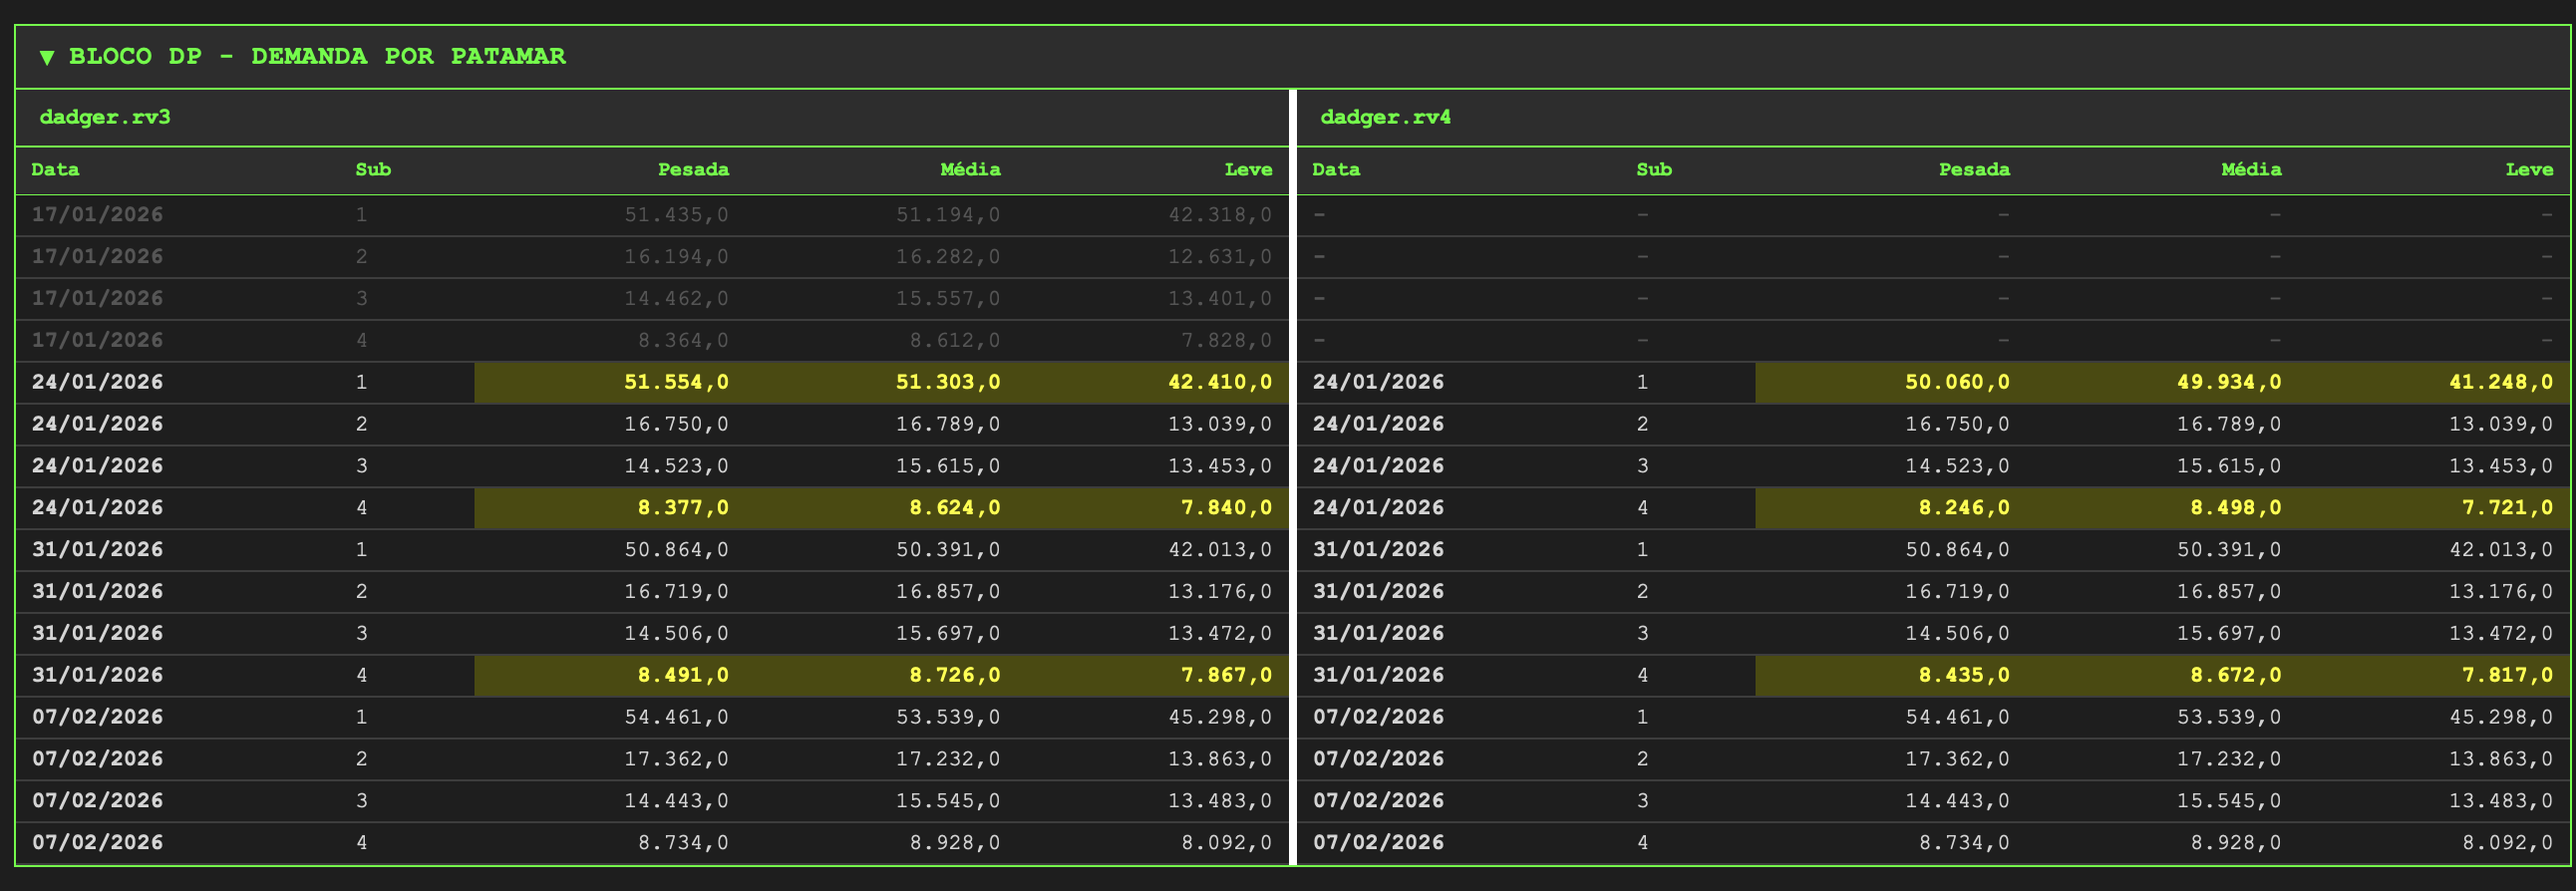
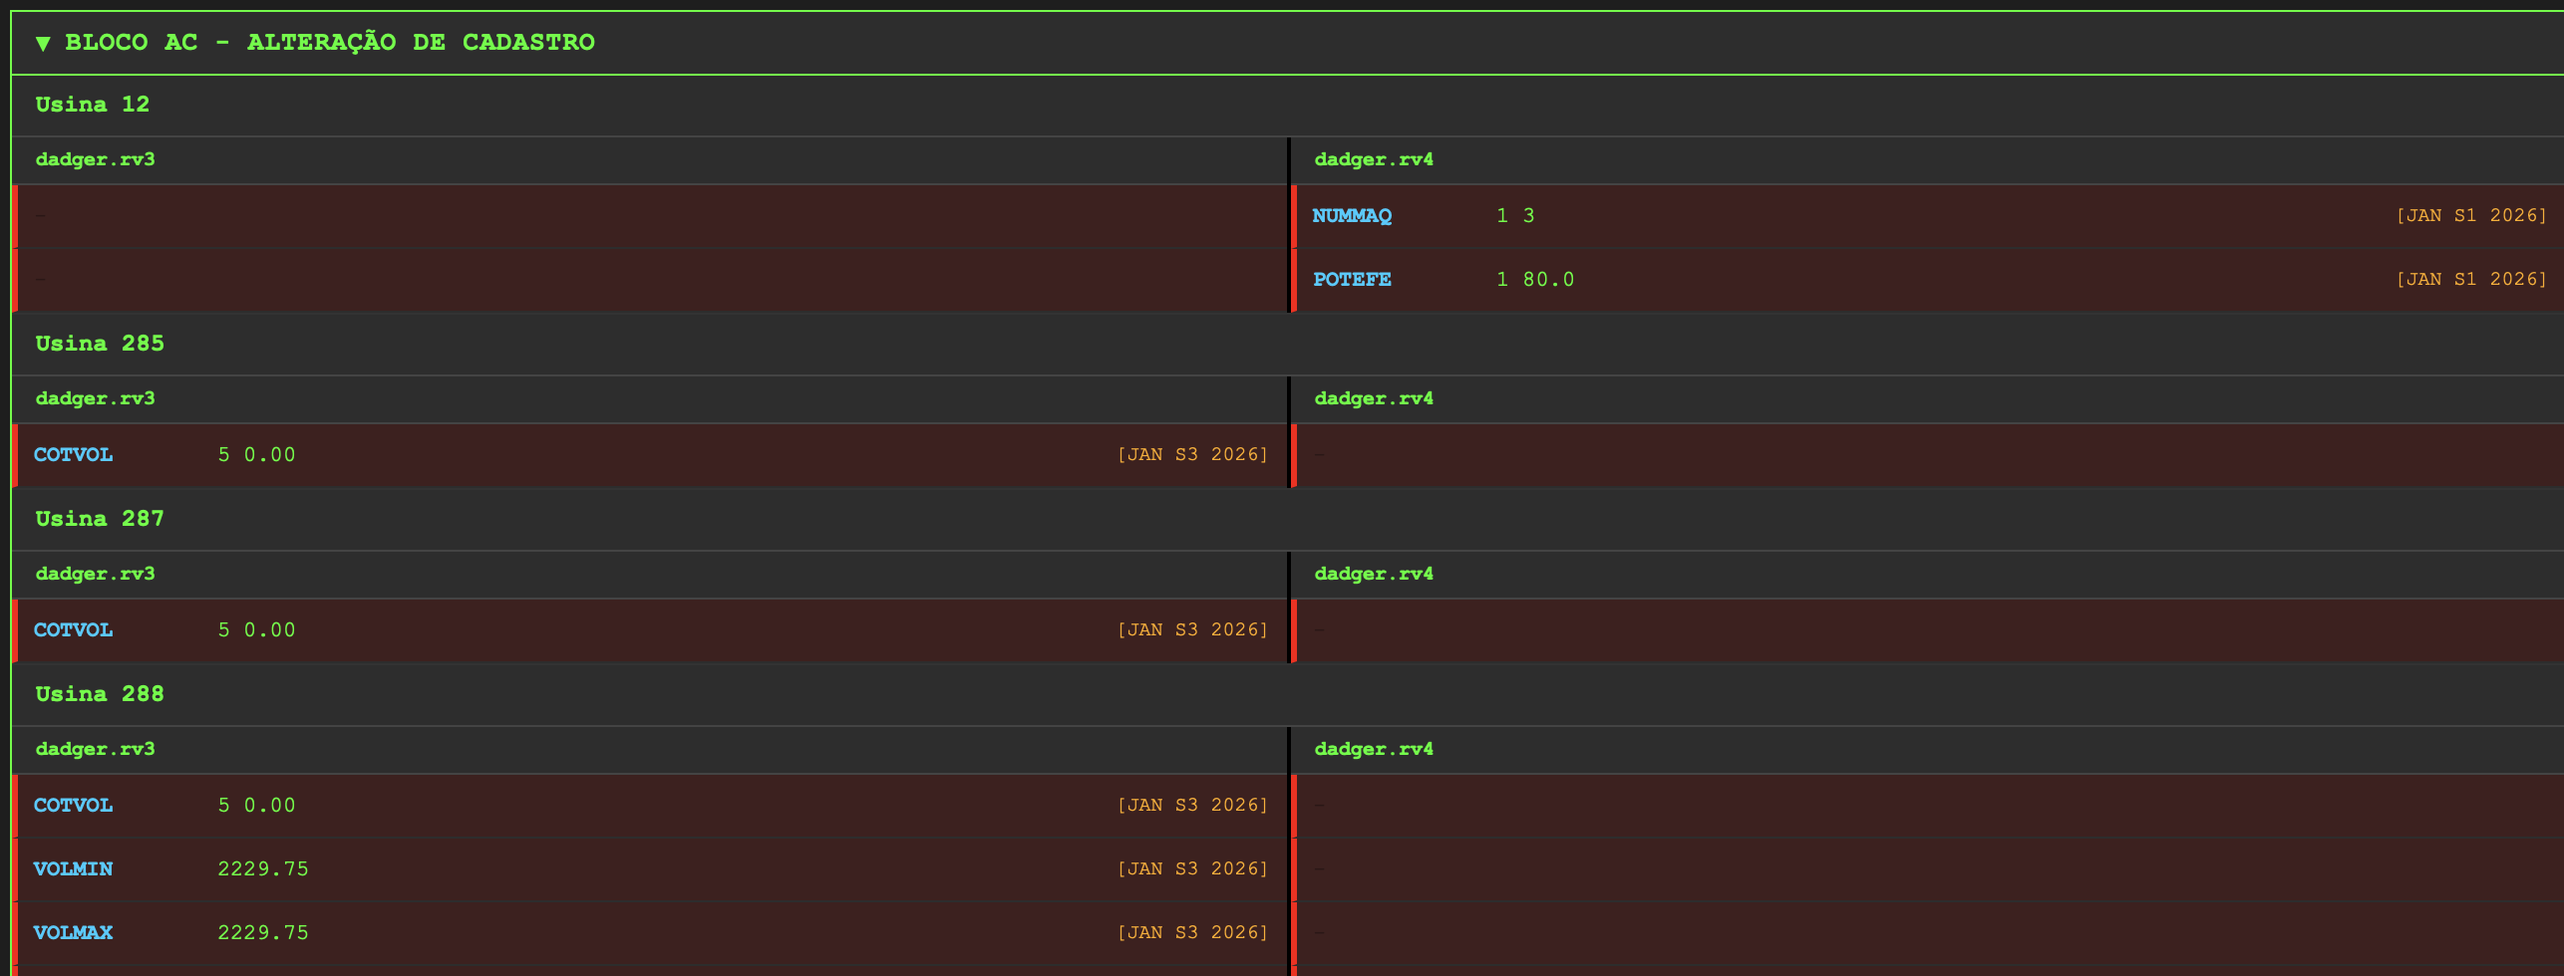
Remover funções de formatação duplicadas nos blocos HQ, HV, RE, RI
Substitui implementações locais de formatLimite e formatRange
pelas funções helper centralizadas em utils/comparison.js.

Blocos atualizados:
- HQBlock: remove formatLimite (4 linhas)
- HVBlock: remove formatLimite (4 linhas)
- REBlock: remove formatLimite (4 linhas)
- RIBlock: remove formatRange (6 linhas)

Redução total: ~18 linhas de código duplicado

🤖 Generated with [Claude Code](https://claude.com/claude-code)

diff --git a/src/components/blocks/RIBlock.vue b/src/components/blocks/RIBlock.vue
@@ -151,7 +151,7 @@
 
 <script>
 import { computed } from 'vue'
-import { hasDiff, formatNumber, alignByEstagio, alignByData } from '../../utils/comparison.js'
+import { hasDiff, formatNumber, formatRange, alignByEstagio, alignByData } from '../../utils/comparison.js'
 import { useBlockComparison } from '../../composables/useBlockComparison.js'
 
 export default {
@@ -255,13 +255,6 @@ export default {
 
     // Criar filteredData com campos de diferença
     const filteredData = createFilteredData()
-
-    const formatRange = (min, max) => {
-      if (min === null && max === null) return '-'
-      const minStr = min !== null ? formatNumber(min) : '-'
-      const maxStr = max !== null ? formatNumber(max) : '-'
-      return `${minStr} - ${maxStr}`
-    }
 
     return {
       collapsed,

diff --git a/src/components/blocks/HQBlock.vue b/src/components/blocks/HQBlock.vue
@@ -140,7 +140,7 @@
 </template>
 
 <script>
-import { formatNumber } from '../../utils/comparison.js'
+import { formatNumber, formatLimite } from '../../utils/comparison.js'
 import { useBlockComparison } from '../../composables/useBlockComparison.js'
 import { useEntityTemporalComparison } from '../../composables/useEntityTemporalComparison.js'
 
@@ -213,11 +213,6 @@ export default {
 
     // Criar filteredData com campo de diferença
     const filteredData = createFilteredData()
-
-    const formatLimite = (value) => {
-      if (value === null || value === undefined) return '-'
-      return formatNumber(value)
-    }
 
     return {
       collapsed,

diff --git a/src/components/blocks/HVBlock.vue b/src/components/blocks/HVBlock.vue
@@ -136,7 +136,7 @@
 </template>
 
 <script>
-import { formatNumber } from '../../utils/comparison.js'
+import { formatNumber, formatLimite } from '../../utils/comparison.js'
 import { useBlockComparison } from '../../composables/useBlockComparison.js'
 import { useEntityTemporalComparison } from '../../composables/useEntityTemporalComparison.js'
 
@@ -207,11 +207,6 @@ export default {
 
     // Criar filteredData com campo de diferença
     const filteredData = createFilteredData()
-
-    const formatLimite = (value) => {
-      if (value === null || value === undefined) return '-'
-      return formatNumber(value)
-    }
 
     return {
       collapsed,

diff --git a/src/components/blocks/REBlock.vue b/src/components/blocks/REBlock.vue
@@ -146,7 +146,7 @@
 </template>
 
 <script>
-import { formatNumber } from '../../utils/comparison.js'
+import { formatNumber, formatLimite } from '../../utils/comparison.js'
 import { useBlockComparison } from '../../composables/useBlockComparison.js'
 import { useEntityTemporalComparison } from '../../composables/useEntityTemporalComparison.js'
 
@@ -225,11 +225,6 @@ export default {
 
     // Criar filteredData com campo de diferença
     const filteredData = createFilteredData()
-
-    const formatLimite = (value) => {
-      if (value === null || value === undefined) return '-'
-      return formatNumber(value)
-    }
 
     return {
       collapsed,
